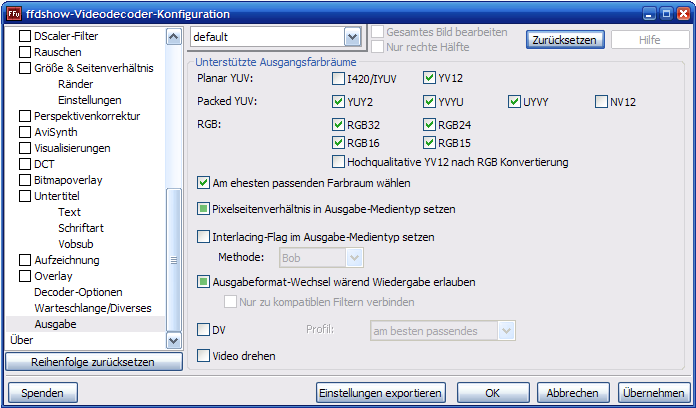
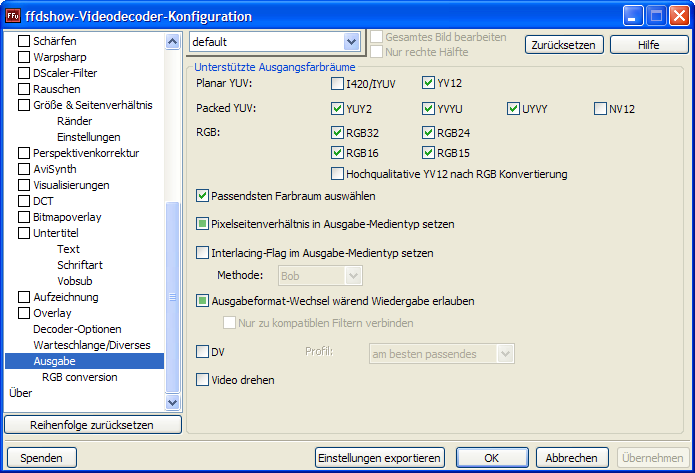
WEB content: Updated screenshots of the ffdshow options window.
git-svn-id: https://ffdshow-tryout.svn.sourceforge.net/svnroot/ffdshow-tryout/trunk@2089 3b938f2f-1a1a-0410-8054-a526ea5ff92c

diff --git a/htmlhelp/html/de/cspOptions.htm b/htmlhelp/html/de/cspOptions.htm
@@ -32,7 +32,7 @@ If you skip to port a revision please note that revision for later porting. -->
     <a name="top" id="top">Erweiterte Farbraumoptionen</a>
   </h1>
 
-  <img src="images/cspOptions.png" title="Erweiterter Farbraumoptionendialog" alt="Erweiterter Farbraumoptionendialog" width="695" height="413" />
+  <img src="images/cspOptions.png" title="Erweiterter Farbraumoptionendialog" alt="Erweiterter Farbraumoptionendialog" width="695" height="473" />
 
   <p>
     In diesem Dialog k&ouml;nnen Optionen, die f&uuml;r die Konvertierung zwischen YCbCr und RGB notwendig sind, konfiguriert werden. In der oberen H&auml;lfte des Dialogs l&auml;&szlig;t sich zwischen den beiden ITU-Standards <em>ITU-R BT.601</em> und <em>ITU-R BT.709</em> ausw&auml;hlen. Die untere H&auml;lfte erlaubt die Kontrolle des Kontrastes, wobei Schwarz, Wei&szlig; sowie Chroma individuell anpassbar sind.<br />

diff --git a/htmlhelp/html/de/outputv.htm b/htmlhelp/html/de/outputv.htm
@@ -32,7 +32,7 @@ If you skip to port a revision please note that revision for later porting. -->
     <a name="top" id="top">Videoausgabe-Konfiguration</a>
   </h1>
 
-  <img src="images/outputV.png" title="Videoausgabe-Dialog" alt="Videoausgabe-Dialog" width="696" height="408" />
+  <img src="images/outputV.png" title="Videoausgabe-Dialog" alt="Videoausgabe-Dialog" width="695" height="473" />
 
   <p>
     Die Ausgabeseite gibt Ihnen Kontrolle &uuml;ber die von ffdshow verwendeten Ausgabeformate. Die obere H&auml;lfte erm&ouml;glicht die Angabe der erlaubten Ausgabefarbr&auml;ume, w&auml;hrend die untere f&uuml;r verschiedene Ausgabeeinstellungen genutzt wird.

diff --git a/htmlhelp/html/en/outputv.htm b/htmlhelp/html/en/outputv.htm
@@ -25,7 +25,7 @@
     <a name="top" id="top">Output video configuration</a>
   </h1>
 
-  <img src="images/outputV.png" title="Output video dialog" alt="Output video dialog" width="558" height="413" />
+  <img src="images/outputV.png" title="Output video dialog" alt="Output video dialog" width="558" height="473" />
 
   <p>
     The output page gives you control over the output formats used by ffdshow. The top half gives you control over the allowed output colorspaces, while the lower half is used for miscellaneous output settings.

diff --git a/htmlhelp/html/de/resize.htm b/htmlhelp/html/de/resize.htm
@@ -32,7 +32,7 @@ If you skip to port a revision please note that revision for later porting. -->
     <a name="top" id="top">Gr&ouml;&szlig;e &amp; Seitenverh&auml;ltnis</a>
   </h1>
 
-  <img src="images/resize.png" title="Gr&ouml;&szlig;endialog" alt="Gr&ouml;&szlig;endialog" width="651" height="473" />
+  <img src="images/resize.png" title="Gr&ouml;&szlig;endialog" alt="Gr&ouml;&szlig;endialog" width="695" height="473" />
 
   <p>
     Dieses Dokument basiert auf Revision 1103 oder neuer. Beta2a hat andere Spezifikationen.

diff --git a/htmlhelp/html/en/cspOptions.htm b/htmlhelp/html/en/cspOptions.htm
@@ -25,7 +25,7 @@
     <a name="top" id="top">Advanced color space options</a>
   </h1>
 
-  <img src="images/cspOptions.png" title="Advanced color space options dialog" alt="Advanced color space options dialog" width="558" height="413" />
+  <img src="images/cspOptions.png" title="Advanced color space options dialog" alt="Advanced color space options dialog" width="558" height="473" />
 
   <p>
     The advanced color space options page gives you control over the YCbCr &lt;-&gt; RGB conversion.

diff --git a/htmlhelp/html/de/queue.htm b/htmlhelp/html/de/queue.htm
@@ -32,7 +32,7 @@ If you skip to port a revision please note that revision for later porting. -->
     <a name="top" id="top">Warteschlange</a>
   </h1>
 
-  <img src="images/queue.png" title="Warteschlangendialog" alt="Warteschlangendialog" width="558" height="473" />
+  <img src="images/queue.png" title="Warteschlangendialog" alt="Warteschlangendialog" width="695" height="473" />
 
   <h2>&Uuml;berblick</h2>
 

diff --git a/htmlhelp/html/en/avisynth.htm b/htmlhelp/html/en/avisynth.htm
@@ -26,7 +26,7 @@
     <a name="top" id="top">AviSynth filter</a>
   </h1>
 
-  <img src="images/avisynth.png" width="558" height="406" title="AviSynth filter dialog" alt="AviSynth filter dialog" />
+  <img src="images/avisynth.png" width="558" height="473" title="AviSynth filter dialog" alt="AviSynth filter dialog" />
 
   <p>
     This document is based on rev. 1297 or later.

diff --git a/htmlhelp/html/en/resize.htm b/htmlhelp/html/en/resize.htm
@@ -25,7 +25,7 @@
     <a name="top" id="top">Resize &amp; aspect</a>
   </h1>
 
-  <img src="images/resize.png" title="Resize dialog" alt="Resize dialog" width="558" height="412" />
+  <img src="images/resize.png" title="Resize dialog" alt="Resize dialog" width="558" height="473" />
 
   <p>
     This document is based on rev 1103 or later. Beta2a has different specification.
